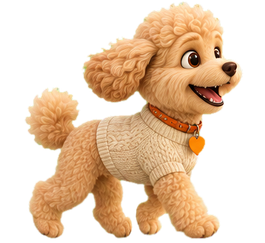
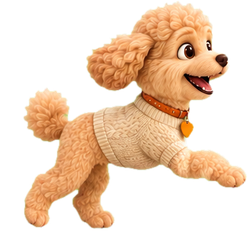
뽀식이 걷기를 진짜 걷기 8장면으로 (뻗기·딛기·지나가기·들기)
- 걷는 뽀식이 한 마리(desktop-pet/art/walk-ref.jpg)를 참고로 AI가 그린 걷기 8장면을 배경 지우고 머리 위치에 맞춰 정렬
- 그림이 몸 들썩임을 담고 있어 따로 넣던 들썩임은 제거, 한 걸음(4장)에 몸 폭의 40% 이동

Claude-Session: https://claude.ai/code/session_01N4vdG3iiDySJSNhVXcJis4

diff --git a/desktop-pet/src/pet.js b/desktop-pet/src/pet.js
@@ -10,7 +10,7 @@ const spriteEl = document.getElementById("sprite")
 // Frames of the real 뽀식이, made from the user's photo (assets/ppo/*.png). All share one scale.
 const SPRITES = {
   front: ["front"],
-  // 8 frames of one natural step cycle: legs swing front/back from one picture (desktop-pet/README.md)
+  // 8 frames of a real walk cycle (reach, land, pass, lift ×2) drawn by AI from 뽀식이 and aligned on the head
   walk: ["walk0", "walk1", "walk2", "walk3", "walk4", "walk5", "walk6", "walk7"],
   run: ["run0", "run1", "run2", "run3"],
   sit: ["sit"],
@@ -30,7 +30,7 @@ const TRICKS = ["bang", "shy", "highfive", "beg", "belly", "yawn"]
 const POSE = { walk: "walk", run: "run", fetch: "run", spin: "run", chase: "run", nap: "sleep", sit: "sit", sleep: "sleep", jump: "jump", bow: "bow", paw: "paw", eat: "eat" }
 for (const t of TRICKS) POSE[t] = t
 const FRAME_MS = { walk: 130, run: 85 }
-const WALK_STEP = 0.075 // fraction of the dog's width walked per frame (8 frames = one stride cycle)
+const WALK_STEP = 0.1 // fraction of the dog's width walked per frame (4 frames = one step: reach, land, pass, lift)
 const BASE_W = 222 // natural width of a walking frame = the dog's box width
 const BASE_H = 244
 const spriteSize = {}
@@ -74,8 +74,8 @@ function drawSprite(now) {
   else if (S.x + S.w + extra > S.W) shift = S.W - (S.x + S.w + extra)
   // The side-view frames face right; the front photo has the name tag text, so it never mirrors.
   const flip = pose === "front" ? 1 : S.facing
-  // Each step lifts the body a touch (two steps per cycle).
-  const bob = pose === "walk" ? -Math.abs(Math.sin((S.walkDist / (S.w * WALK_STEP * frames.length)) * Math.PI * 2)) * S.w * 0.015 : 0
+  // The walking pictures already bounce the body with each step, so no extra bob.
+  const bob = 0
   el.style.transform = `translate(calc(-50% + ${shift}px), ${bob}px) scaleX(${flip})`
 }
 

diff --git a/desktop-pet/README.md b/desktop-pet/README.md
@@ -26,4 +26,4 @@ npm run dist:win   # 윈도우 설치 파일 (dist/)
 GitHub Actions(`.github/workflows/desktop-pet.yml`)가 `desktop-pet/` 이 바뀔 때마다 윈도우 설치 파일을 만들어 `ppo-pet` 릴리스에 올려요.
 
 ## 걷기 그림
-`src/assets/ppo/walk0~7.png` 는 걷기 그림 한 장에서 무릎 아래만 앞뒤로 부드럽게 휘게 만든 8장(앞다리와 뒷다리가 반대로, 앞으로 내밀 때 살짝 들기)이에요. `pet.js` 는 시간 대신 걸은 거리에 맞춰 그림을 넘겨서 발이 미끄러지지 않아요.
+`src/assets/ppo/walk0~7.png` 는 걷는 뽀식이 한 마리(`art/walk-ref.jpg`)를 참고로 AI가 그린 걷기 8장면(뻗기·딛기·지나가기·들기 ×2)을 머리 위치에 맞춰 정렬한 거예요. `pet.js` 는 시간 대신 걸은 거리에 맞춰 그림을 넘겨서 발이 미끄러지지 않아요.
